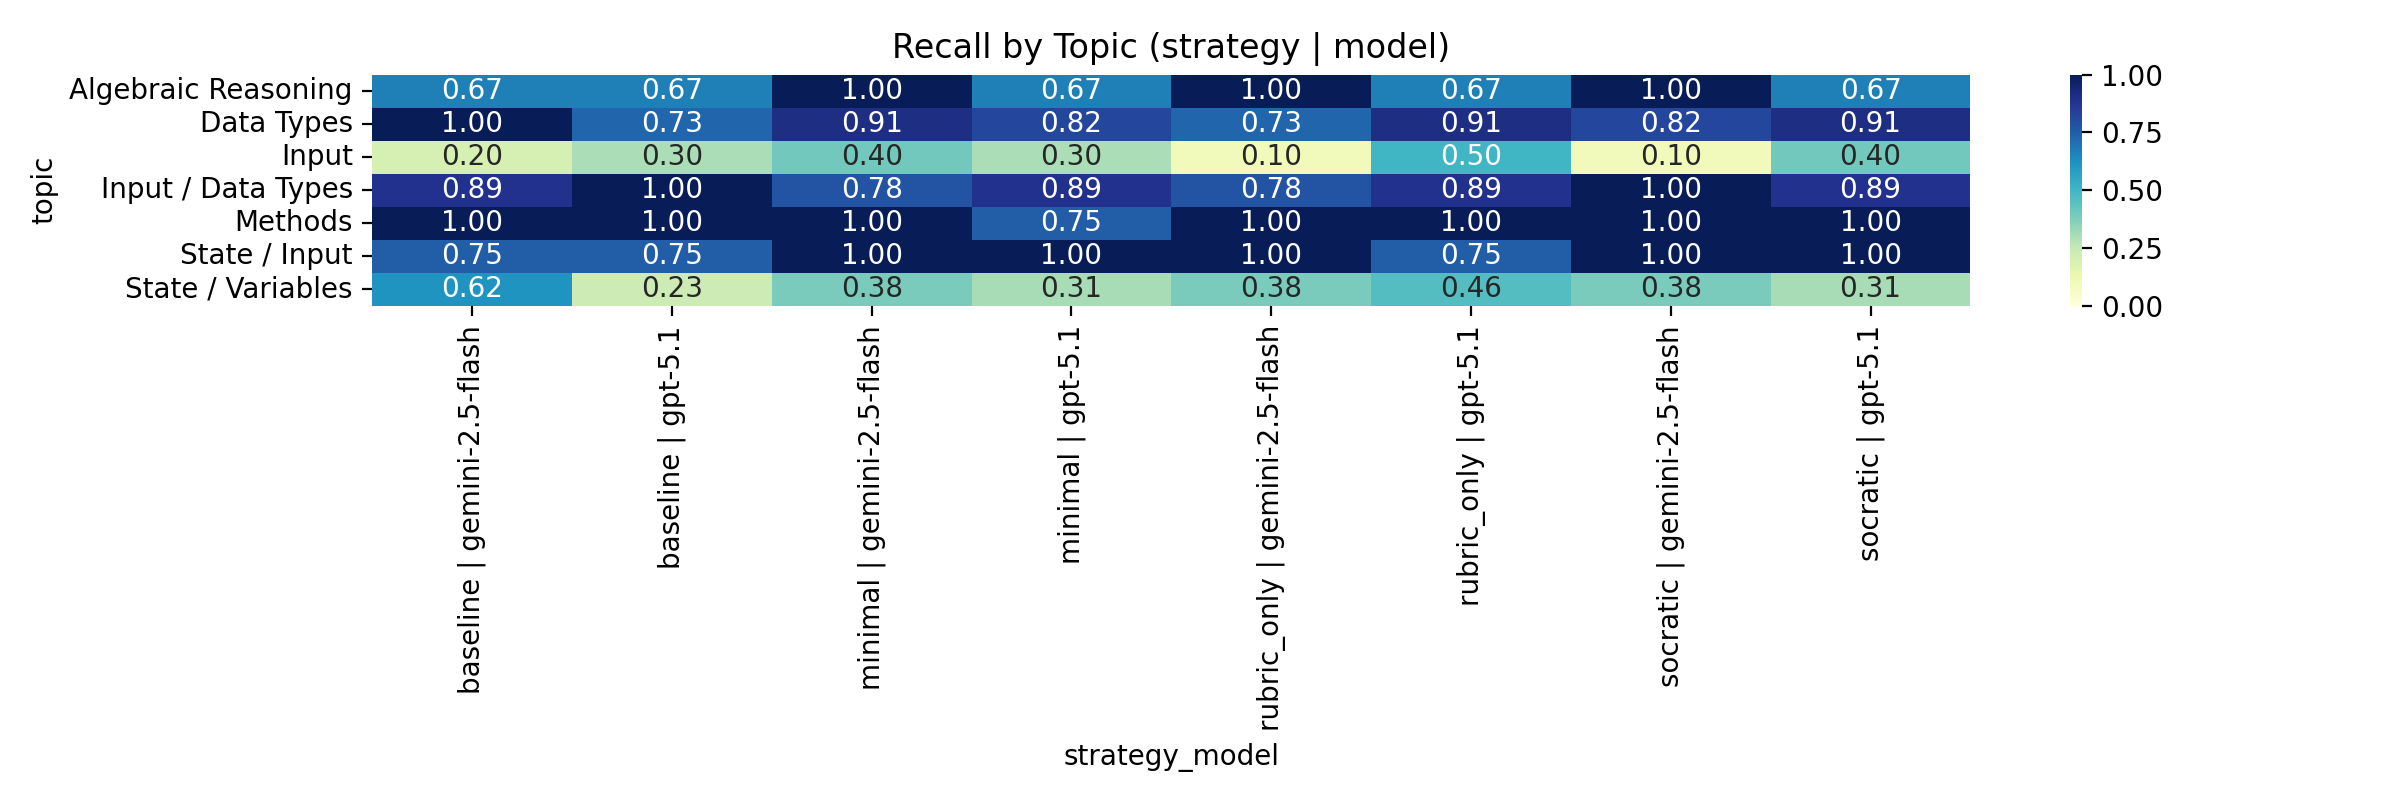
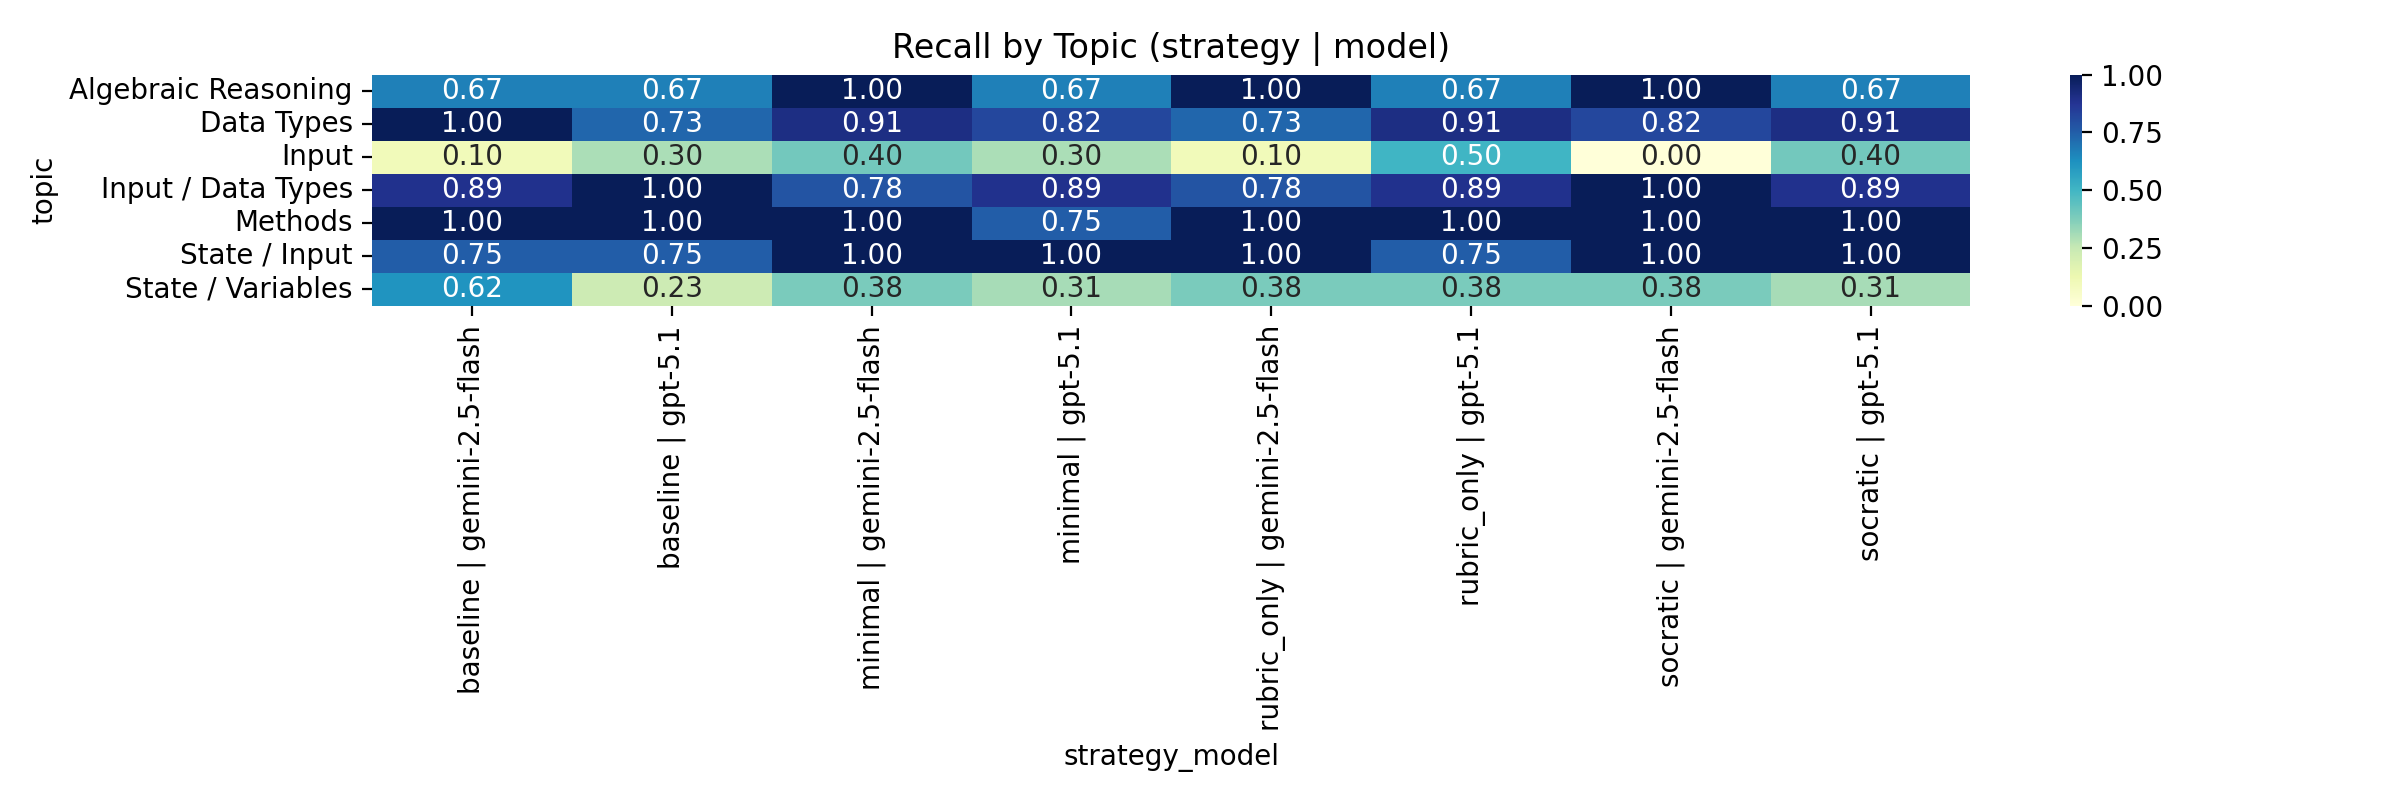
v2.8

Changed region(s): [[0.6562, 0.1562, 0.75, 0.2188], [0.5625, 0.3438, 0.6562, 0.4062], [0.1562, 0.1562, 0.25, 0.2188]]

diff --git a/analyze_cli.py b/analyze_cli.py
@@ -796,12 +796,90 @@ def render_hallucination_snippets(df: pd.DataFrame, limit: int = 5) -> str:
     return "\n".join(lines)
 
 
+def compute_misconception_recall(
+    opportunities: pd.DataFrame, 
+    groundtruth: list[dict[str, Any]]
+) -> pd.DataFrame:
+    """Compute recall per misconception ID."""
+    if opportunities.empty:
+        return pd.DataFrame()
+    
+    gt_map = {g["id"]: g for g in groundtruth}
+    
+    stats = opportunities.groupby("expected_id").agg(
+        recall=("success", "mean"),
+        n=("success", "count")
+    ).reset_index()
+    
+    # Add names and categories from groundtruth
+    stats["name"] = stats["expected_id"].map(
+        lambda x: gt_map.get(x, {}).get("misconception_name", x)
+    )
+    stats["category"] = stats["expected_id"].map(
+        lambda x: gt_map.get(x, {}).get("category", "")
+    )
+    
+    return stats.sort_values("recall")
+
+
+def render_misconception_table(stats: pd.DataFrame) -> str:
+    """Render markdown table of per-misconception recall."""
+    if stats.empty:
+        return "_No misconception data available_"
+    
+    lines = [
+        "| ID | Misconception | Category | Recall | N |",
+        "|----|---------------|----------|--------|---|"
+    ]
+    for _, row in stats.iterrows():
+        # Truncate long names
+        name = row["name"][:35] + "..." if len(row["name"]) > 35 else row["name"]
+        lines.append(
+            f"| {row['expected_id']} | {name} | {row['category']} | "
+            f"{row['recall']:.2f} | {int(row['n'])} |"
+        )
+    return "\n".join(lines)
+
+
+def plot_misconception_recall_bars(stats: pd.DataFrame, path: Path) -> Path:
+    """Horizontal bar chart of recall per misconception, color-coded by recall."""
+    if stats.empty:
+        return path
+    
+    plt.figure(figsize=(12, max(6, len(stats) * 0.4)))
+    
+    # Create labels with ID and short name
+    labels = [f"{row['expected_id']}: {row['name'][:25]}" for _, row in stats.iterrows()]
+    recalls = stats["recall"].values
+    
+    # Color by recall (red=low, green=high)
+    colors = plt.cm.RdYlGn(recalls)
+    
+    bars = plt.barh(labels, recalls, color=colors)
+    
+    # Add count labels
+    for bar, n in zip(bars, stats["n"]):
+        plt.text(bar.get_width() + 0.02, bar.get_y() + bar.get_height()/2,
+                f'n={int(n)}', va='center', fontsize=8, color='gray')
+    
+    plt.xlabel("Recall")
+    plt.ylabel("Misconception")
+    plt.title("Detection Recall by Misconception (sorted by difficulty)")
+    plt.xlim(0, 1.15)
+    plt.axvline(x=0.5, color='gray', linestyle='--', alpha=0.5)
+    plt.tight_layout()
+    plt.savefig(path, dpi=200)
+    plt.close()
+    return path
+
+
 def generate_report(
     metrics: pd.DataFrame,
     ci: pd.DataFrame,
     opportunities: pd.DataFrame,
     detections: pd.DataFrame,
     asset_paths: dict[str, Path],
+    misconception_stats: pd.DataFrame | None = None,
 ) -> str:
     ts = datetime.now(timezone.utc).isoformat()
     is_ablation = "match_mode" in metrics.columns
@@ -878,6 +956,22 @@ def generate_report(
         "## Topic Heatmap",
         f"![Topic Heatmap]({asset_paths.get('heatmap', '')})" if asset_paths.get("heatmap") else "_No heatmap generated_",
         "",
+    ])
+    
+    # Per-misconception analysis section
+    if misconception_stats is not None and not misconception_stats.empty:
+        report.extend([
+            "## Per-Misconception Detection Rates",
+            "",
+            "Detection recall for each seeded misconception, sorted by difficulty (hardest to detect at top):",
+            "",
+            render_misconception_table(misconception_stats),
+            "",
+            f"![Misconception Recall]({asset_paths.get('misconception_recall', '')})" if asset_paths.get("misconception_recall") else "",
+            "",
+        ])
+    
+    report.extend([
         "## Hallucination Analysis",
         f"![Hallucinations]({asset_paths.get('hallucinations', '')})" if asset_paths.get("hallucinations") else "",
         "",
@@ -1016,6 +1110,7 @@ def main(
         "pr_scatter": ASSET_DIR / "precision_recall_scatter.png",
         "topic_bars": ASSET_DIR / "topic_recall_bars.png",
         "model_comparison": ASSET_DIR / "model_comparison.png",
+        "misconception_recall": ASSET_DIR / "misconception_recall.png",
     }
     
     # For ablation mode, use hybrid data for topic plots; add ablation-specific plots
@@ -1023,13 +1118,18 @@ def main(
         asset_paths["matcher_ablation"] = ASSET_DIR / "matcher_ablation.png"
         asset_paths["matcher_pr_scatter"] = ASSET_DIR / "matcher_pr_scatter.png"
         
-        # Filter to hybrid for topic-related plots
+        # Filter to hybrid for topic-related plots and misconception analysis
         hybrid_opps = opportunities_df[opportunities_df["match_mode"] == "hybrid"]
         hybrid_dets = detections_df[detections_df["match_mode"] == "hybrid"]
         
         plot_topic_heatmap(hybrid_opps, asset_paths["heatmap"])
         plot_hallucinations(hybrid_dets, asset_paths["hallucinations"])
         plot_topic_recall_bars(hybrid_opps, asset_paths["topic_bars"])
+        
+        # Per-misconception analysis (use hybrid)
+        misconception_stats = compute_misconception_recall(hybrid_opps, groundtruth)
+        if not misconception_stats.empty:
+            plot_misconception_recall_bars(misconception_stats, asset_paths["misconception_recall"])
         
         # Ablation-specific plots
         plot_matcher_ablation(metrics, asset_paths["matcher_ablation"])
@@ -1048,8 +1148,13 @@ def main(
         plot_precision_recall_scatter(metrics, asset_paths["pr_scatter"])
         plot_topic_recall_bars(opportunities_df, asset_paths["topic_bars"])
         plot_model_comparison(metrics, asset_paths["model_comparison"])
+        
+        # Per-misconception analysis
+        misconception_stats = compute_misconception_recall(opportunities_df, groundtruth)
+        if not misconception_stats.empty:
+            plot_misconception_recall_bars(misconception_stats, asset_paths["misconception_recall"])
 
-    report_text = generate_report(metrics, ci, opportunities_df, detections_df, asset_paths)
+    report_text = generate_report(metrics, ci, opportunities_df, detections_df, asset_paths, misconception_stats)
     REPORT_PATH.write_text(report_text)
     JSON_EXPORT_PATH.write_text(
         json.dumps(

diff --git a/thesis_report.md b/thesis_report.md
@@ -1,5 +1,5 @@
 # LLM Misconception Detection: Analysis Report
-_Generated: 2025-12-04T17:35:27.949713+00:00_
+_Generated: 2025-12-04T19:05:21.850654+00:00_
 
 ## Executive Highlights
 - **Matcher Ablation Study**: Comparing fuzzy_only, semantic_only, and hybrid matchers.
@@ -12,8 +12,8 @@ _Generated: 2025-12-04T17:35:27.949713+00:00_
 | Matcher | Total TP | Total FP | Total FN | Avg Precision | Avg Recall | Avg F1 |
 |---------|----------|----------|----------|---------------|------------|--------|
 | fuzzy_only | 34 | 798 | 400 | 0.042 | 0.078 | 0.053 |
-| hybrid | 298 | 268 | 151 | 0.538 | 0.664 | 0.591 |
-| semantic_only | 305 | 271 | 144 | 0.542 | 0.679 | 0.598 |
+| hybrid | 295 | 271 | 154 | 0.533 | 0.657 | 0.585 |
+| semantic_only | 301 | 275 | 147 | 0.536 | 0.671 | 0.592 |
 
 ![Matcher Ablation](docs/report_assets/matcher_ablation.png)
 
@@ -31,28 +31,28 @@ _Generated: 2025-12-04T17:35:27.949713+00:00_
 | fuzzy_only | rubric_only | gpt-5.1 | 6 | 66 | 48 | 0.083 | 0.111 | 0.095 | 0.03–0.17 |
 | fuzzy_only | socratic | gemini-2.5-flash | 6 | 147 | 49 | 0.039 | 0.109 | 0.058 | 0.01–0.12 |
 | fuzzy_only | socratic | gpt-5.1 | 0 | 67 | 54 | 0.000 | 0.000 | 0.000 | 0.00–0.00 |
-| hybrid | baseline | gemini-2.5-flash | 41 | 38 | 16 | 0.519 | 0.719 | 0.603 | 0.49–0.71 |
+| hybrid | baseline | gemini-2.5-flash | 40 | 39 | 17 | 0.506 | 0.702 | 0.588 | 0.47–0.69 |
 | hybrid | baseline | gpt-5.1 | 34 | 20 | 22 | 0.630 | 0.607 | 0.618 | 0.50–0.73 |
 | hybrid | minimal | gemini-2.5-flash | 39 | 42 | 17 | 0.481 | 0.696 | 0.569 | 0.48–0.67 |
 | hybrid | minimal | gpt-5.1 | 33 | 24 | 21 | 0.579 | 0.611 | 0.595 | 0.48–0.71 |
 | hybrid | rubric_only | gemini-2.5-flash | 37 | 42 | 22 | 0.468 | 0.627 | 0.536 | 0.42–0.68 |
-| hybrid | rubric_only | gpt-5.1 | 39 | 26 | 16 | 0.600 | 0.709 | 0.650 | 0.54–0.75 |
-| hybrid | socratic | gemini-2.5-flash | 39 | 52 | 19 | 0.429 | 0.672 | 0.523 | 0.44–0.62 |
+| hybrid | rubric_only | gpt-5.1 | 38 | 27 | 17 | 0.585 | 0.691 | 0.633 | 0.53–0.73 |
+| hybrid | socratic | gemini-2.5-flash | 38 | 53 | 20 | 0.418 | 0.655 | 0.510 | 0.43–0.61 |
 | hybrid | socratic | gpt-5.1 | 36 | 24 | 18 | 0.600 | 0.667 | 0.632 | 0.52–0.75 |
-| semantic_only | baseline | gemini-2.5-flash | 41 | 38 | 15 | 0.519 | 0.732 | 0.607 | 0.49–0.72 |
+| semantic_only | baseline | gemini-2.5-flash | 40 | 39 | 16 | 0.506 | 0.714 | 0.593 | 0.47–0.71 |
 | semantic_only | baseline | gpt-5.1 | 34 | 20 | 22 | 0.630 | 0.607 | 0.618 | 0.50–0.73 |
 | semantic_only | minimal | gemini-2.5-flash | 41 | 44 | 16 | 0.482 | 0.719 | 0.577 | 0.46–0.69 |
 | semantic_only | minimal | gpt-5.1 | 33 | 25 | 21 | 0.569 | 0.611 | 0.589 | 0.47–0.70 |
 | semantic_only | rubric_only | gemini-2.5-flash | 41 | 39 | 18 | 0.512 | 0.695 | 0.590 | 0.49–0.71 |
-| semantic_only | rubric_only | gpt-5.1 | 39 | 26 | 16 | 0.600 | 0.709 | 0.650 | 0.55–0.76 |
-| semantic_only | socratic | gemini-2.5-flash | 40 | 55 | 18 | 0.421 | 0.690 | 0.523 | 0.42–0.62 |
+| semantic_only | rubric_only | gpt-5.1 | 38 | 27 | 17 | 0.585 | 0.691 | 0.633 | 0.53–0.75 |
+| semantic_only | socratic | gemini-2.5-flash | 38 | 57 | 19 | 0.400 | 0.667 | 0.500 | 0.40–0.59 |
 | semantic_only | socratic | gpt-5.1 | 36 | 24 | 18 | 0.600 | 0.667 | 0.632 | 0.51–0.74 |
 
 ## Topic Difficulty (Recall)
 | Topic | Recall | N |
 |-------|--------|---|
-| Input | 0.287 | 80 |
-| State / Variables | 0.385 | 104 |
+| Input | 0.263 | 80 |
+| State / Variables | 0.375 | 104 |
 | Algebraic Reasoning | 0.792 | 24 |
 | Data Types | 0.852 | 88 |
 | Input / Data Types | 0.889 | 72 |
@@ -63,6 +63,32 @@ _Generated: 2025-12-04T17:35:27.949713+00:00_
 
 ## Topic Heatmap
 ![Topic Heatmap](docs/report_assets/topic_heatmap.png)
+
+## Per-Misconception Detection Rates
+
+Detection recall for each seeded misconception, sorted by difficulty (hardest to detect at top):
+
+| ID | Misconception | Category | Recall | N |
+|----|---------------|----------|--------|---|
+| INP-02 | One Scanner Call Reads All | Input | 0.20 | 40 |
+| STA-02 | Concrete Instance Fallacy | State / Variables | 0.21 | 24 |
+| STA-06 | Default Zero Assumption | State / Variables | 0.25 | 16 |
+| INP-01 | Prompt-Logic Mismatch | Input | 0.33 | 40 |
+| STA-07 | Swapped Variables After Read | State / Variables | 0.42 | 40 |
+| STA-01 | Spreadsheet View | State / Variables | 0.54 | 24 |
+| ALG-01 | Precedence Blindness | Algebraic Reasoning | 0.69 | 16 |
+| INP-04 | `parseInt` for Decimal Input | Input / Data Types | 0.75 | 32 |
+| TYP-04 | Premature Cast to Int | Data Types | 0.78 | 40 |
+| TYP-05 | Narrowing Cast in Division | Data Types | 0.88 | 8 |
+| STA-04 | The Ghost Read | State / Input | 0.91 | 32 |
+| TYP-02 | Integer Coordinates | Data Types | 0.92 | 24 |
+| TYP-01 | Integer Division Trap | Data Types | 0.94 | 16 |
+| API-01 | Argument Commutativity | Methods | 0.96 | 24 |
+| API-02 | The Void Assumption | Methods | 1.00 | 8 |
+| ALG-02 | XOR as Power | Algebraic Reasoning | 1.00 | 8 |
+| INP-03 | Scanner Type Mismatch | Input / Data Types | 1.00 | 40 |
+
+![Misconception Recall](docs/report_assets/misconception_recall.png)
 
 ## Hallucination Analysis
 ![Hallucinations](docs/report_assets/hallucinations.png)
@@ -80,7 +106,7 @@ _Generated: 2025-12-04T17:35:27.949713+00:00_
 - Metrics: Precision/Recall/F1 with bootstrap CIs; agreement via κ; significance via McNemar where applicable.
 
 ## Agreement & Significance
-- baseline: κ=0.279, McNemar p=0.1949 (stat=1.681) | table={'both_correct': 26, 'only_a': 12, 'only_b': 6, 'both_wrong': 10}
+- baseline: κ=0.324, McNemar p=0.2751 (stat=1.191) | table={'both_correct': 26, 'only_a': 11, 'only_b': 6, 'both_wrong': 11}
 - minimal: κ=0.354, McNemar p=0.3816 (stat=0.766) | table={'both_correct': 27, 'only_a': 10, 'only_b': 6, 'both_wrong': 11}
-- rubric_only: κ=0.279, McNemar p=0.1949 (stat=1.681) | table={'both_correct': 26, 'only_a': 6, 'only_b': 12, 'both_wrong': 10}
-- socratic: κ=0.548, McNemar p=0.8802 (stat=0.023) | table={'both_correct': 30, 'only_a': 5, 'only_b': 6, 'both_wrong': 13}
+- rubric_only: κ=0.244, McNemar p=0.3019 (stat=1.066) | table={'both_correct': 25, 'only_a': 7, 'only_b': 12, 'both_wrong': 10}
+- socratic: κ=0.514, McNemar p=0.6650 (stat=0.188) | table={'both_correct': 29, 'only_a': 5, 'only_b': 7, 'both_wrong': 13}
